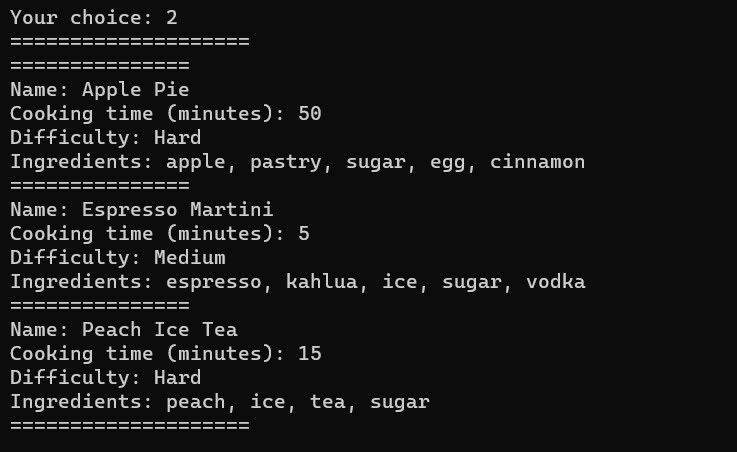
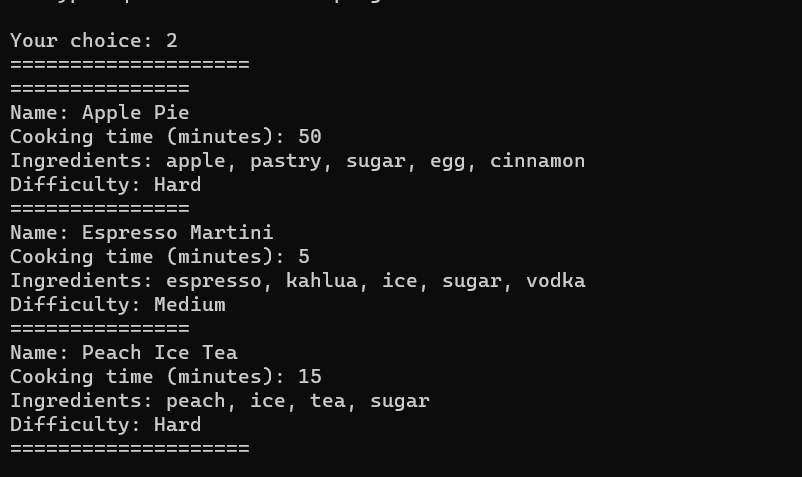
corrected some indenting and visual order issues

Changed region(s): [[0.0, 0.031, 0.8114, 0.9602], [0.4057, 0.4956, 0.4369, 0.5265]]

diff --git a/ex1.7/task/recipe_app.py b/ex1.7/task/recipe_app.py
@@ -33,8 +33,8 @@ class Recipe(Base):
     output = "="*15 + \
         "\nName: " + str(self.name) + \
         "\nCooking time (minutes): " + str(self.cooking_time) + \
-        "\nDifficulty: " + str(self.difficulty) + \
-        "\nIngredients: " + str(self.ingredients)
+        "\nIngredients: " + str(self.ingredients) + \
+        "\nDifficulty: " + str(self.difficulty) 
     return output
   
   def calculate_difficulty(self):
@@ -240,8 +240,8 @@ def edit_recipe():
         print(recipe_to_edit)
         print("\nSelect an attribute to edit:")
         print("1. Name")
-        print("2. Ingredients")
-        print("3. Cooking Time")
+        print("2. Cooking Time")
+        print("3. Ingredients")
 
         while True:
             try:
@@ -250,26 +250,27 @@ def edit_recipe():
             except ValueError:
                 print("Invalid input. Please enter a valid attribute number.")
 
-            if attribute_choice == 1:
-                new_name = input("Enter the new name for the recipe: ")
-                recipe_to_edit.name = new_name
-            elif attribute_choice == 2:
-                new_ingredients = input("Enter the new ingredients for the recipe (comma-separated): ")
-                recipe_to_edit.ingredients = new_ingredients
-            elif attribute_choice == 3:
-                new_cooking_time = int(input("Enter the new cooking time for the recipe (in minutes): "))
-                recipe_to_edit.cooking_time = new_cooking_time
-            else:
-                print("Invalid attribute choice.")
-                return None
-            
-            # Recalculate and update difficulty
-            recipe_to_edit.calculate_difficulty()
+        if attribute_choice == 1:
+            new_name = input("Enter the new name for the recipe: ")
+            recipe_to_edit.name = new_name
+        elif attribute_choice == 2:
+            new_cooking_time = int(input("Enter the new cooking time for the recipe (in minutes): "))
+            recipe_to_edit.cooking_time = new_cooking_time
+        elif attribute_choice == 3:
+            new_ingredients = input("Enter the new ingredients for the recipe (comma-separated): ")
+            recipe_to_edit.ingredients = new_ingredients
+        
+        else:
+            print("Invalid attribute choice.")
+            return None
+        
+        # Recalculate and update difficulty
+        recipe_to_edit.calculate_difficulty()
 
             # Commit the changes to the database
-            session.commit()
+        session.commit()
 
-            print("Recipe updated successfully.")
+        print("Recipe updated successfully.")
     
 
 #===================
